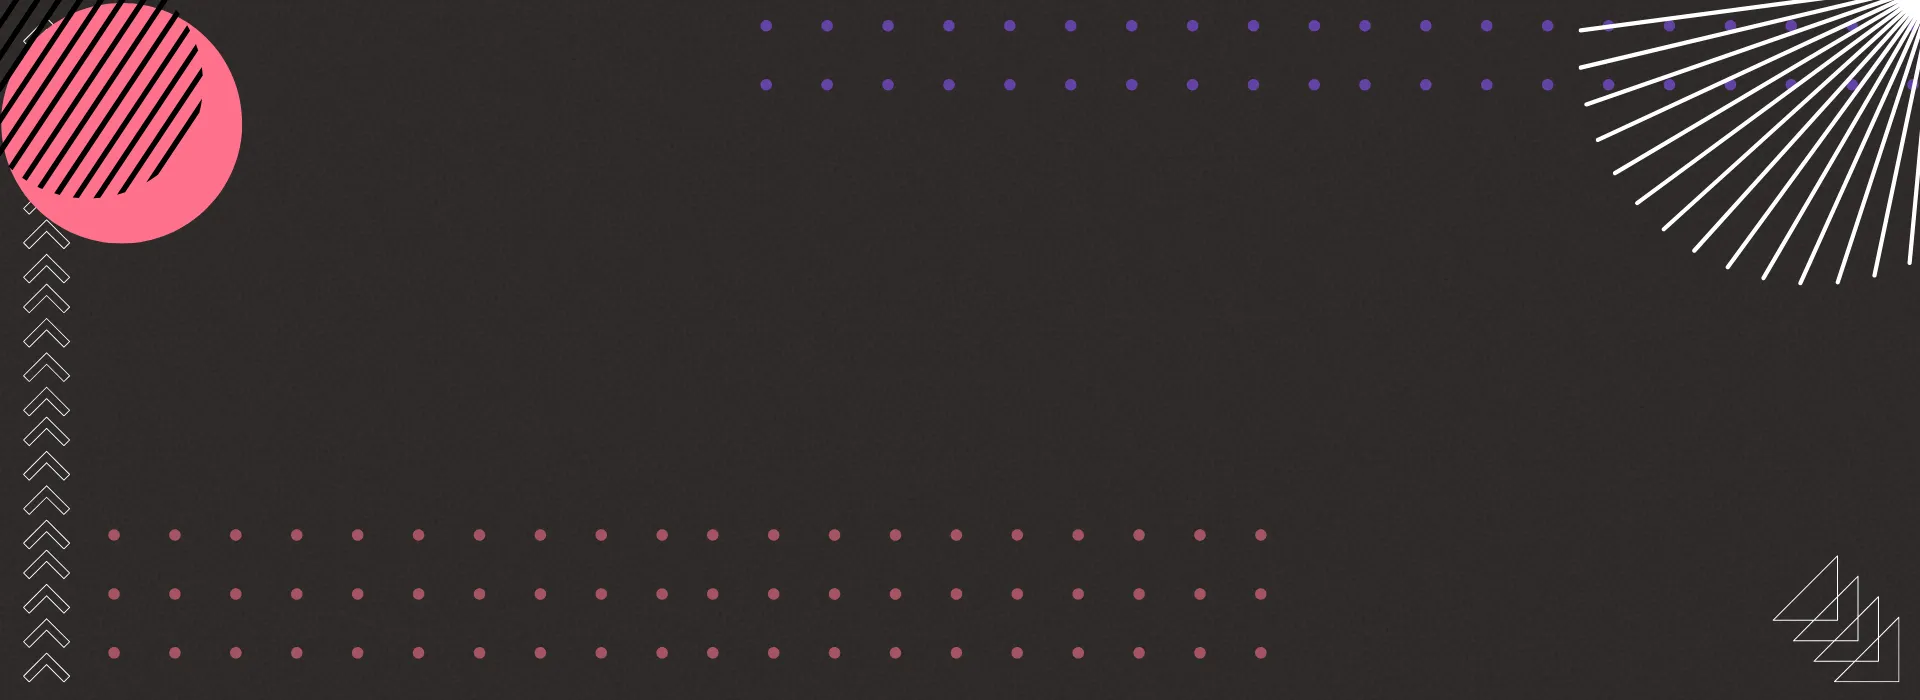
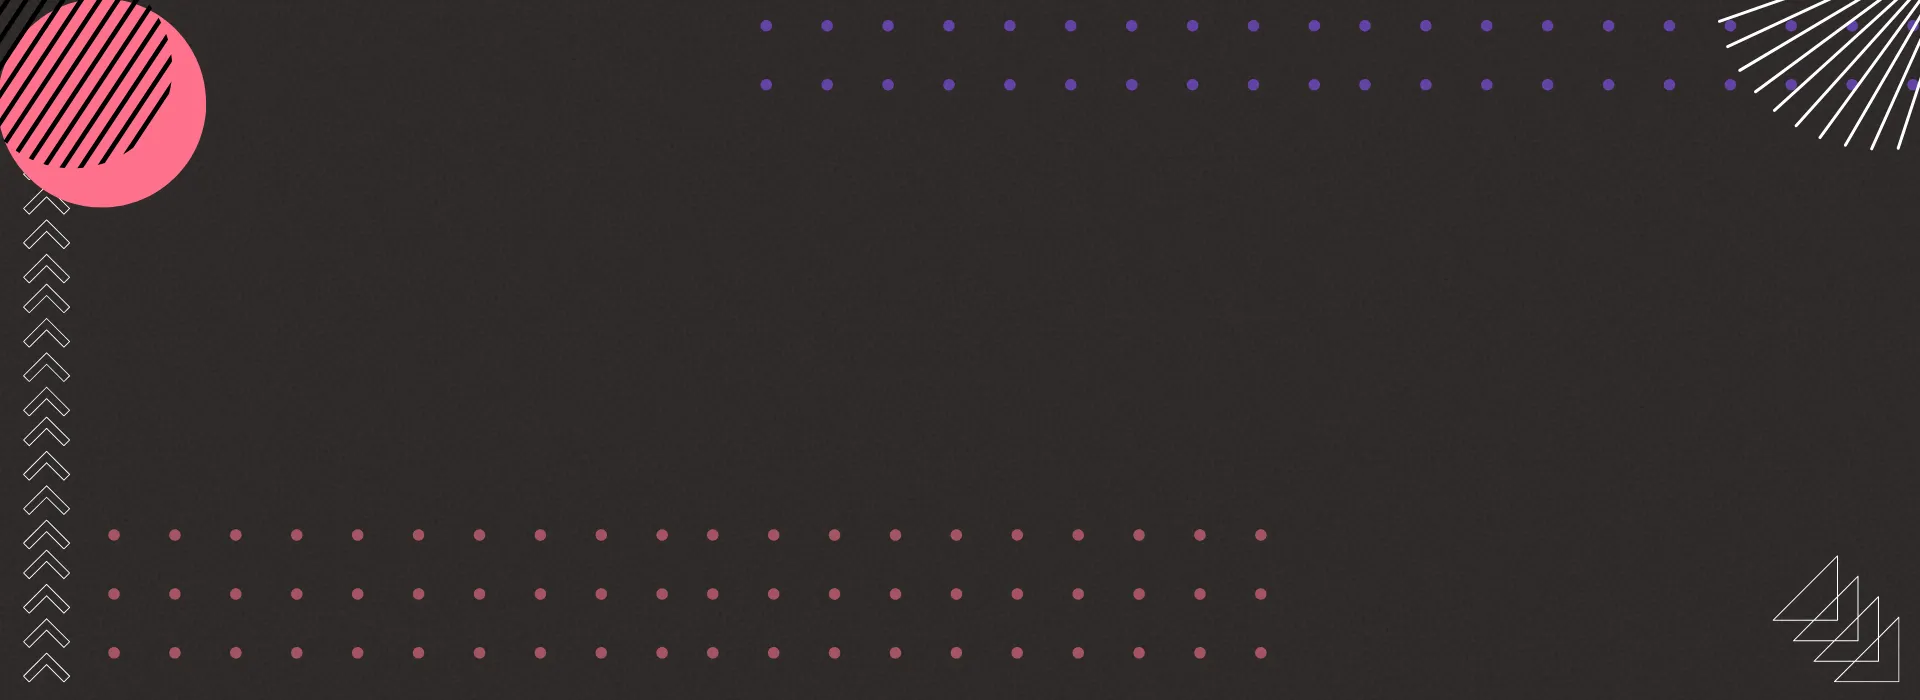
organice la grilla

Changed region(s): [[0.8125, 0.0, 1.0, 0.39], [0.0, 0.0, 0.125, 0.36]]

diff --git a/estilos.css b/estilos.css
@@ -4,7 +4,7 @@
   --bg-color-secundario: #1c1c1c;
   --bg-color-icons: #ff8a80;
   --bg-color-icons-footer: #9e9e9e;
-  --font-principal: "Roboto", sans-serif;
+  --font-principal: "Outfit", sans-serif;
 }
 
 /*---  VARIABLES GLOBALES  ---*/
@@ -26,7 +26,6 @@ body {
 }
 
 .pagina-index {
-  --font-principal: "Archivo", sans-serif;
   font-weight: 500;
 }
 
@@ -261,7 +260,8 @@ main {
 .marca-resumido {
   margin: 0;
   font-size: 24px;
-  font-family: "Archivo Black", sans-serif;
+  font-family: var(--font-principal);
+  font-weight: 900;
   filter: drop-shadow(3px 3px 0 #000);
   letter-spacing: 2px;
   text-shadow: -1px -1px 0 #000, 1px -1px 0 #000, -0px 1px 0 #000,
@@ -370,12 +370,13 @@ iframe {
 }
 
 .seccion-galeria-programas {
+  display: none;
   position: relative;
   width: 100%;
-  height: 300px;
+  height: 325px;
   overflow: hidden;
   background-color: var(--bg-color-secundario);
-  border-block: 2px solid var(--bg-color-icons);
+  border-bottom: 2px solid var(--bg-color-icons);
 }
 
 .fondo-seccion-galeria {
@@ -401,24 +402,29 @@ iframe {
 
 .programacion-lista {
   display: grid;
-  grid-auto-flow: column;
-  grid-auto-columns: 126px;
+  grid-template-columns: repeat(18, 63px);
   grid-template-rows: repeat(2, 1fr);
-  column-gap: 18px;
-  row-gap: 14px;
+  column-gap: 0;
+  row-gap: 20px;
   height: 100%;
   min-width: max-content;
 }
 
 .programacion-item {
   display: grid;
-  grid-template-rows: 54px auto auto;
+  grid-column: span 2;
+  grid-template-rows: auto auto auto;
   align-content: center;
   justify-items: center;
+  row-gap: 2px;
   min-width: 0;
   color: #ffffff;
   text-align: center;
-  text-shadow: 0 2px 6px rgba(0, 0, 0, 0.75);
+  text-shadow: 0 2px 4px rgba(0, 0, 0, 0.55);
+}
+
+.programacion-item:nth-child(10) {
+  grid-column: 2 / span 2;
 }
 
 .programacion-item img {
@@ -426,20 +432,24 @@ iframe {
   height: 54px;
   object-fit: contain;
   align-self: end;
-  margin-bottom: 8px;
+  margin-bottom: -2px;
 }
 
 .programacion-dia {
+  font-family: var(--font-principal);
   font-size: 14px;
-  font-weight: 700;
-  line-height: 1.1;
+  font-weight: 500;
+  line-height: 1;
+  letter-spacing: 0;
 }
 
 .programacion-horario,
 .programacion-on-demand {
-  font-size: 17px;
+  font-family: var(--font-principal);
+  font-size: 21px;
   font-weight: 900;
-  line-height: 1.1;
+  line-height: 1;
+  letter-spacing: 0;
 }
 
 .imagenes-galeria {
@@ -540,40 +550,49 @@ iframe {
 footer {
   border-top: 2px solid var(--bg-color-icons);
   z-index: 4000;
-  padding-bottom: 15px;
+  padding: 26px 18px 22px;
 }
 
 .footer-contenedor {
-  margin: 20px auto;
-  gap: 15px;
+  margin: 0 auto;
+  gap: 22px;
+  max-width: 430px;
 }
 
 .logo-footer {
-  width: 110px;
-  height: 25px;
+  width: 132px;
+  height: auto;
 }
 
 .footer-redes-sociales {
-  margin: 5px 0;
+  margin: 0;
   display: grid;
-  grid-template-columns: repeat(3, 1fr);
-  grid-template-rows: repeat(2, auto);
-  gap: 25px;
+  grid-template-columns: repeat(4, 54px);
+  gap: 16px 18px;
   justify-items: center;
+  justify-content: center;
 }
 
 .footer-botones-redes a {
   background-color: var(--bg-color-icons-footer);
-  width: 55px;
-  height: 55px;
+  width: 54px;
+  height: 54px;
   color: var(--bg-color-secundario);
-  font-size: 25px;
+  font-size: 24px;
   border-radius: 50%;
+  transition: color 0.25s ease, transform 0.25s ease, background-color 0.25s ease;
+}
+
+.footer-botones-redes:last-child {
+  grid-column: 2 / span 2;
 }
 
 .texto-copyright {
-  margin-bottom: 15px;
+  margin: 22px auto 0;
+  max-width: 320px;
   font-size: 12px;
+  font-weight: 600;
+  line-height: 1.4;
   color: #b0b0b0;
 }
 
@@ -590,6 +609,23 @@ footer {
   z-index: 5000;
   text-align: center;
   box-shadow: 0 -2px 10px rgba(0, 0, 0, 0.5);
+}
+
+@media (max-width: 480px) {
+  .footer-redes-sociales {
+    grid-template-columns: repeat(3, 52px);
+    gap: 15px 18px;
+  }
+
+  .footer-botones-redes a {
+    width: 52px;
+    height: 52px;
+    font-size: 23px;
+  }
+
+  .footer-botones-redes:last-child {
+    grid-column: 2;
+  }
 }
 
 /**---  MEDIA QUERYS  ---*/
@@ -736,38 +772,43 @@ footer {
     height: 450px;
   }
 
+  .seccion-galeria-programas {
+    display: block;
+  }
+
   .programacion-resumen {
     padding: 18px 28px 20px;
     overflow: hidden;
   }
 
   .programacion-lista {
-    grid-auto-flow: row;
-    grid-auto-columns: initial;
-    grid-template-columns: repeat(9, minmax(88px, 1fr));
+    grid-template-columns: repeat(18, minmax(0, 1fr));
     grid-template-rows: repeat(2, minmax(0, 1fr));
-    column-gap: clamp(14px, 1.6vw, 30px);
+    column-gap: 0;
     row-gap: 14px;
+    width: min(100%, 1760px);
+    margin-inline: auto;
     min-width: 0;
   }
 
   .programacion-item {
-    grid-template-rows: 62px auto auto;
+    grid-template-rows: auto auto auto;
+    row-gap: 1px;
   }
 
   .programacion-item img {
-    width: min(100%, 118px);
-    height: 62px;
-    margin-bottom: 10px;
+    width: min(100%, 155px);
+    height: 125px;
+    margin-bottom: -25px;
   }
 
   .programacion-dia {
-    font-size: clamp(12px, 0.85vw, 15px);
+    font-size: clamp(14px, 0.9vw, 16px);
   }
 
   .programacion-horario,
   .programacion-on-demand {
-    font-size: clamp(16px, 1vw, 20px);
+    font-size: clamp(20px, 1.18vw, 23px);
   }
 
   /*?--- GALERIA ---*/
@@ -820,29 +861,25 @@ footer {
 
   /**---  SECTION FOOTER  ---*/
   footer {
-    padding-bottom: 30px;
+    padding: 30px 20px 28px;
   }
 
   .footer-contenedor {
-    flex-direction: row;
-    justify-content: space-between;
-    margin: 8px 0 6px;
-    padding: 0 70px;
+    flex-direction: column;
+    justify-content: center;
+    margin: 0 auto;
+    padding: 0;
   }
 
   .footer-redes-sociales {
-    display: flex;
-    flex-wrap: wrap;
-    justify-content: center;
-    gap: 20px;
-    margin: 10px 0;
+    display: grid;
+    gap: 18px 24px;
   }
 
   .footer-redes-sociales a {
-    width: 40px;
-    height: 40px;
-    font-size: 19px;
-    transition: all 0.3s ease;
+    width: 62px;
+    height: 62px;
+    font-size: 27px;
   }
 
   .footer-redes-sociales a:hover {
@@ -851,6 +888,6 @@ footer {
   }
 
   .logo-footer {
-    width: 130px;
+    width: 150px;
   }
 }

diff --git a/index.html b/index.html
@@ -46,14 +46,14 @@
 
     <!-- ✅ Preload de recursos críticos -->
     <link rel="preload"
-        href="https://fonts.googleapis.com/css2?family=Archivo:wght@500;700&family=Archivo+Black&display=swap"
+        href="https://fonts.googleapis.com/css2?family=Fleur+De+Leah&family=Inter:ital,opsz,wght@0,14..32,100..900;1,14..32,100..900&family=Montserrat:ital,wght@0,100..900;1,100..900&family=Outfit:wght@100..900&display=swap"
         as="style">
 
     <!-- ✅ Fuentes de Google (carga asíncrona para rendimiento) -->
-    <link href="https://fonts.googleapis.com/css2?family=Archivo:wght@500;700&family=Archivo+Black&display=swap"
+    <link href="https://fonts.googleapis.com/css2?family=Fleur+De+Leah&family=Inter:ital,opsz,wght@0,14..32,100..900;1,14..32,100..900&family=Montserrat:ital,wght@0,100..900;1,100..900&family=Outfit:wght@100..900&display=swap"
         rel="stylesheet" media="print" onload="this.media='all'">
     <noscript>
-        <link href="https://fonts.googleapis.com/css2?family=Archivo:wght@500;700&family=Archivo+Black&display=swap"
+        <link href="https://fonts.googleapis.com/css2?family=Fleur+De+Leah&family=Inter:ital,opsz,wght@0,14..32,100..900;1,14..32,100..900&family=Montserrat:ital,wght@0,100..900;1,100..900&family=Outfit:wght@100..900&display=swap"
             rel="stylesheet">
     </noscript>
 
@@ -364,12 +364,12 @@
         <div class="contenedor-fondo">
             <!-- Nueva imagen de fondo -->
             <picture class="contenedor-imagen-fondo">
-                <!-- Pantallas grandes (desktop 2560px) -->
-                <source media="(min-width: 1440px)"
+                <!-- Pantallas grandes -->
+                <source media="(min-width: 1920px)"
                     srcset="img/fondos/fondos-main/fondo-pagina-index/fondo-main-desktop-2560×1440.webp"
                     type="image/webp">
 
-                <!-- Pantallas medianas (desktop 1920px o similar) -->
+                <!-- Desktop -->
                 <source media="(min-width: 1025px)"
                     srcset="img/fondos/fondos-main/fondo-pagina-index/fondo-main-desktop.webp" type="image/webp">
 
